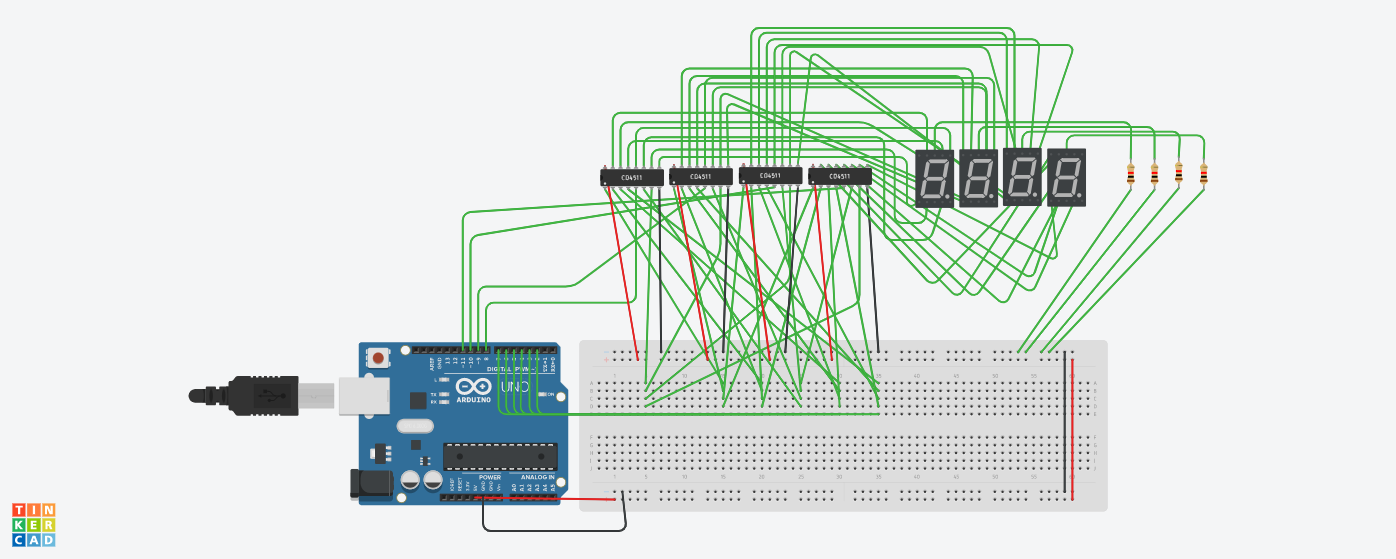
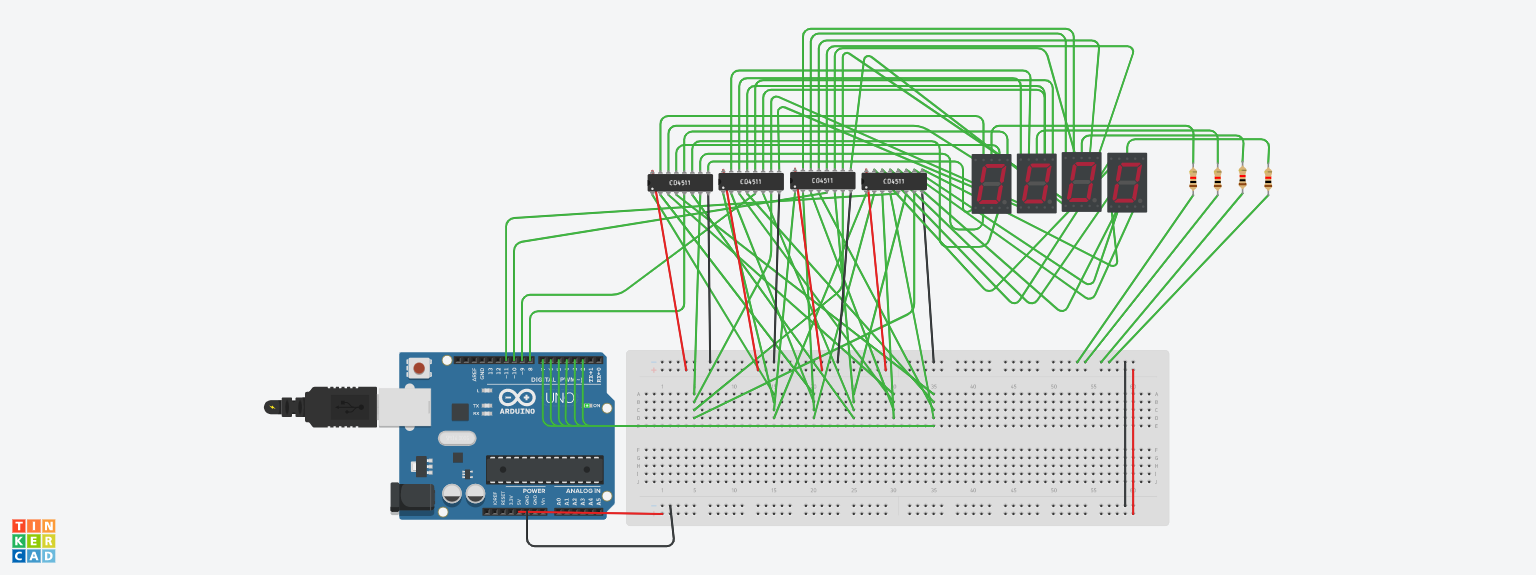
第四次提交作业，张泽霖19020100373

Changed region(s): [[0.1232, 0.0304, 0.8625, 0.9732], [0.0, 0.8819, 0.0616, 1.0]]

diff --git a/lessons4&lessons5/1234.c b/lessons4&lessons5/1234.c
@@ -1,0 +1,67 @@
+#define IN1 2
+#define IN2 3
+#define IN3 4
+#define IN4 5
+
+#define S1 8
+#define S2 9
+#define S3 10
+#define S4 11
+
+#define LT 6
+#define BT 7
+void setup()
+{
+  pinMode(IN1, OUTPUT);//输入1
+  pinMode(IN2, OUTPUT);//输入2
+  pinMode(IN3, OUTPUT);//输入3
+  pinMode(IN4, OUTPUT);//输入4
+  pinMode(S1, OUTPUT);//片选1
+  pinMode(S2, OUTPUT);//片选2
+  pinMode(S3, OUTPUT);//片选3
+  pinMode(S4, OUTPUT);//片选4
+  
+  pinMode(LT,OUTPUT);//测试
+  pinMode(BT,OUTPUT);//消隐
+  
+  digitalWrite(LT,HIGH);
+  digitalWrite(BT,HIGH);
+  
+  digitalWrite(S1,HIGH);
+  digitalWrite(S2,HIGH);
+  digitalWrite(S3,HIGH);
+  digitalWrite(S4,HIGH);
+  
+  digitalWrite(S1,LOW);
+  digitalWrite(IN1,HIGH);
+  digitalWrite(IN2,LOW);
+  digitalWrite(IN3,LOW);
+  digitalWrite(IN4,LOW);
+  digitalWrite(S1,HIGH);
+  
+    digitalWrite(S2,LOW);
+  digitalWrite(IN1,LOW);
+  digitalWrite(IN2,HIGH);
+  digitalWrite(IN3,LOW);
+  digitalWrite(IN4,LOW);
+  digitalWrite(S2,HIGH);
+  
+    digitalWrite(S3,LOW);
+  digitalWrite(IN1,HIGH);
+  digitalWrite(IN2,HIGH);
+  digitalWrite(IN3,LOW);
+  digitalWrite(IN4,LOW);
+  digitalWrite(S3,HIGH);
+  
+    digitalWrite(S4,LOW);
+  digitalWrite(IN1,LOW);
+  digitalWrite(IN2,LOW);
+  digitalWrite(IN3,HIGH);
+  digitalWrite(IN4,LOW);
+  digitalWrite(S4,HIGH);
+}
+
+void loop()
+{
+  
+}
